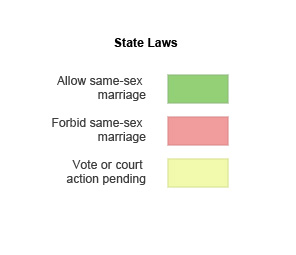
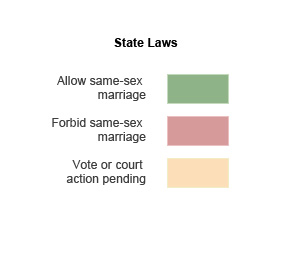
one last (hopefully) legend overhaul.

Changed region(s): [[0.5473, 0.6039, 0.7905, 0.7412], [0.5473, 0.2745, 0.7905, 0.4118], [0.5473, 0.4667, 0.7905, 0.5765]]

diff --git a/javascript/map.js b/javascript/map.js
@@ -147,15 +147,15 @@ function createMap(){
 				$("#legend0").empty();
 				
 				if (map.getLevel() < 6) {
-					$("#legend0").append("<img src='images/Counties.small.circles.jpg'></img>");	
-				/*		
+					$("#legend0").append("<img src='images/Counties.small.circles.jpg'></img>");			
 				} else if (map.getLevel() < 7) {
-					$("#legend0").append("<img src='images/Counties.medium.circles.jpg'></img>");			
-				*/
+					$("#legend0").append("<img src='images/Counties.medium.circles.jpg'></img>");
 				} else if (map.getLevel() < 8) {					
 					$("#legend0").append("<img src='images/Counties.large.circles.jpg'></img>");			
-				} else {
+				} else if (map.getLevel() < 9) {
 					$("#legend0").append("<img src='images/Tracts.small.circles.jpg'></img>");			
+				} else {
+					$("#legend0").append("<img src='images/Tracts.medium.circles.jpg'></img>");			
 				}
 				
 				if (map.id == "mapDiv0") {
@@ -248,7 +248,7 @@ function initUI(layers,index,map) {
 
     if(layerInfo.length > 0){
 		if (map.id == "mapDiv0") {
-			$("#legend0").append("<img src='images/Tolerance Legend Small.jpg'></img>");
+			$("#legend0").append("<img src='images/Counties.small.circles.jpg'></img>");
 		} else if (map.id == "mapDiv1") {
 			$("#legend1").append("<img src='images/Laws legend.jpg'></img>");
 		} else if (map.id == "mapDiv2") {
